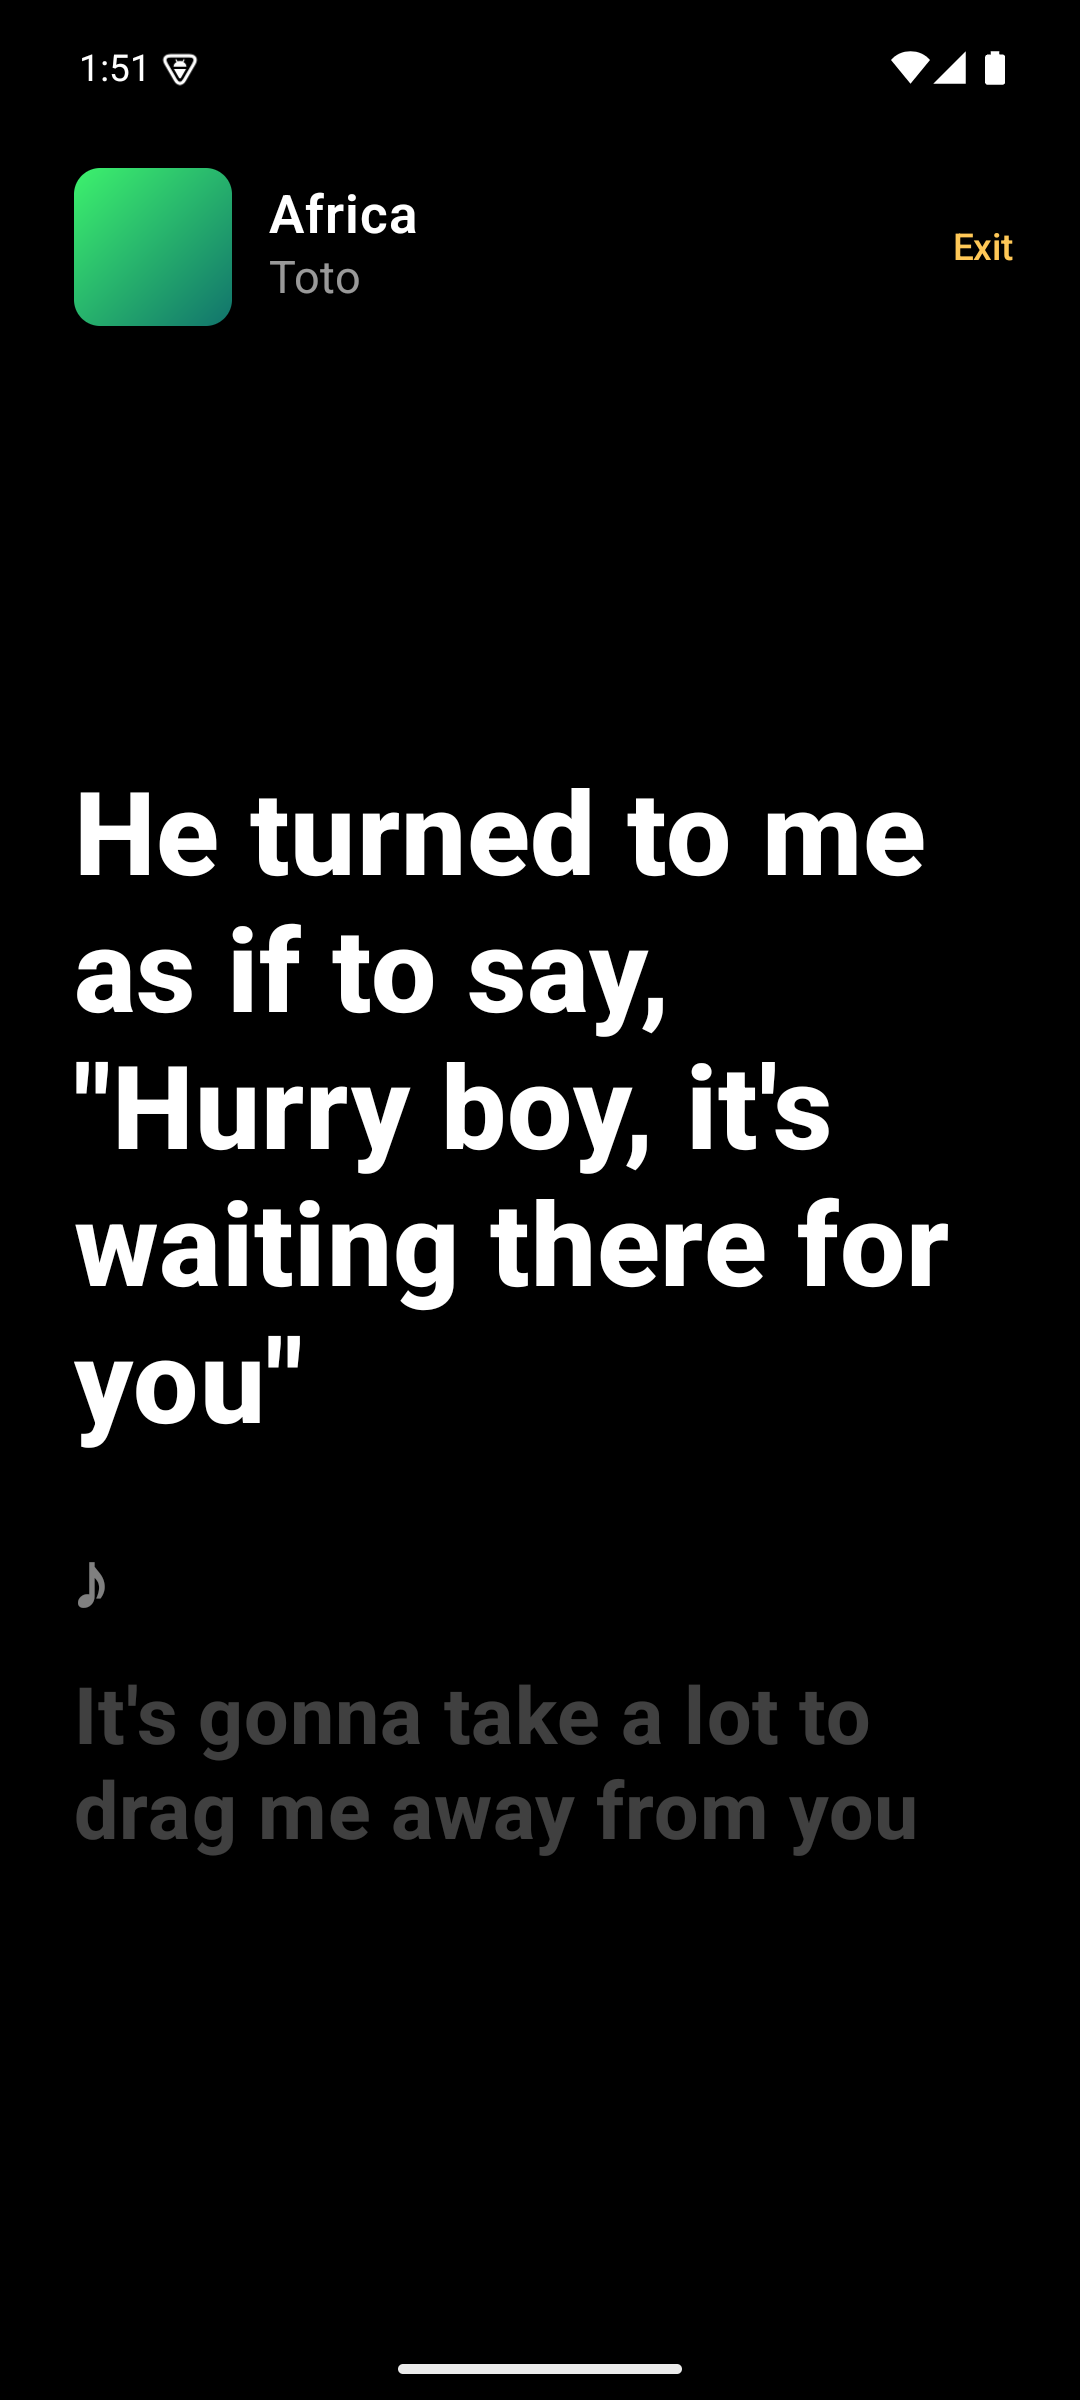
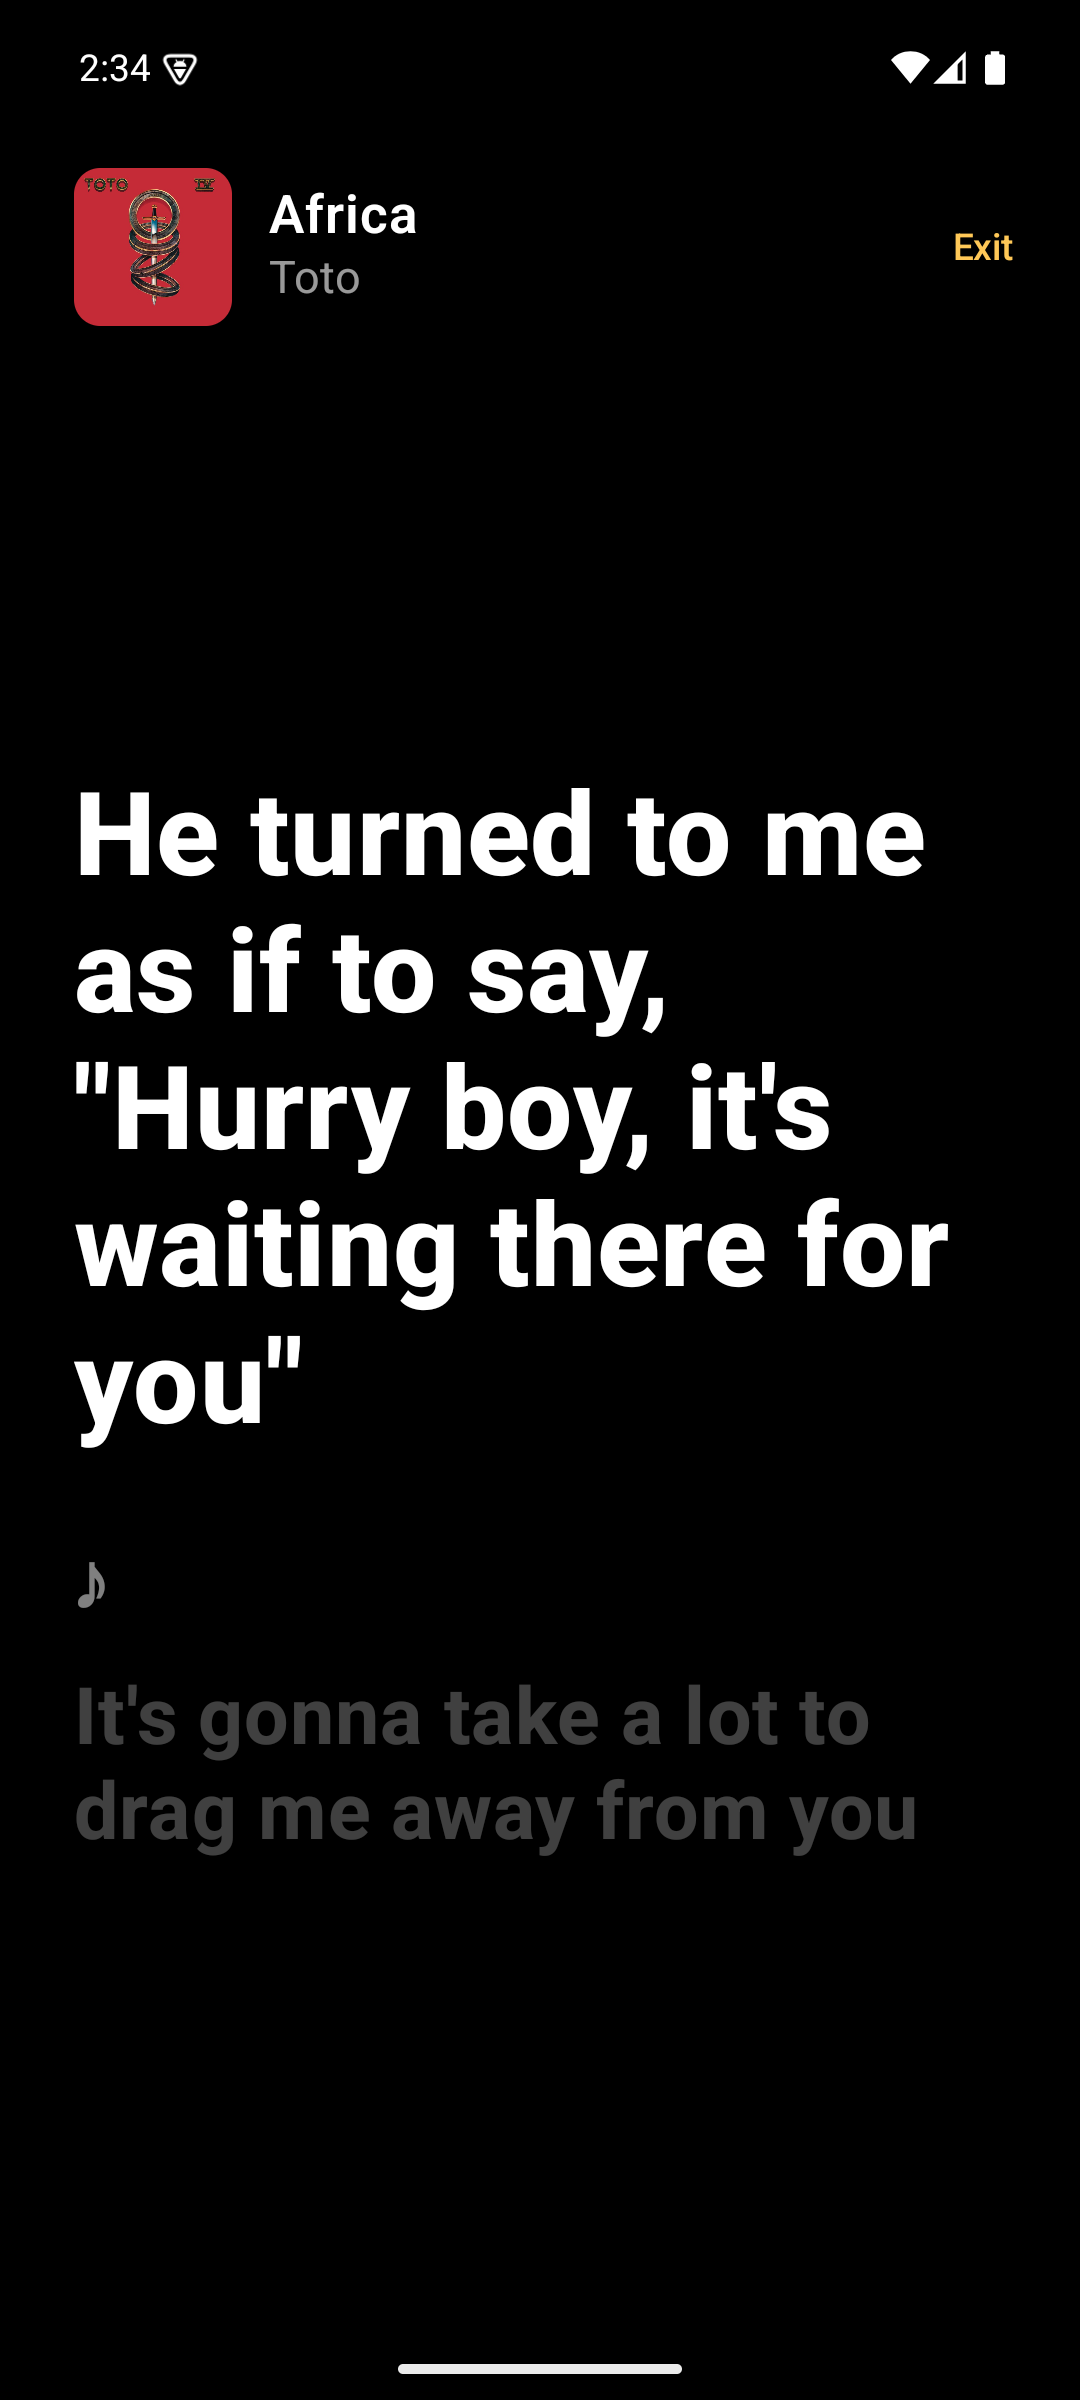
Rewrite README, refresh screenshots, fix cover lookup on session restart
- README rewritten in a plainer, first-person voice without emojis
- New screenshots from the current build (phone, Hebrew, car view, Windows)
- Android: allow the online cover lookup again when the same song comes
  back in a new player session

Changed region(s): [[0.0611, 0.0625, 0.2139, 0.1562]]

diff --git a/app/src/main/java/com/lyricsmatch/media/MediaRepository.kt b/app/src/main/java/com/lyricsmatch/media/MediaRepository.kt
@@ -52,11 +52,16 @@ object MediaRepository {
         if (fetchingKey == np.trackKey) return
         fetchingKey = np.trackKey
         io.launch {
-            delay(1_500) // players sometimes send the art a moment after the title
-            if (_nowPlaying.value?.trackKey != np.trackKey || _artwork.value?.trackKey == np.trackKey) return@launch
-            val bmp = ArtworkFinder.find(np.artist, np.title) ?: return@launch
-            if (_nowPlaying.value?.trackKey == np.trackKey && _artwork.value == null) {
-                _artwork.value = Artwork(np.trackKey, bmp, tintOf(bmp))
+            try {
+                delay(1_500) // players sometimes send the art a moment after the title
+                if (_nowPlaying.value?.trackKey != np.trackKey || _artwork.value?.trackKey == np.trackKey) return@launch
+                val bmp = ArtworkFinder.find(np.artist, np.title) ?: return@launch
+                if (_nowPlaying.value?.trackKey == np.trackKey && _artwork.value == null) {
+                    _artwork.value = Artwork(np.trackKey, bmp, tintOf(bmp))
+                }
+            } finally {
+                // Allow a fresh lookup if the same song comes back later (results are cached).
+                if (fetchingKey == np.trackKey) fetchingKey = null
             }
         }
     }

diff --git a/README.md b/README.md
@@ -1,155 +1,141 @@
 <div align="center">
 
-<img src="docs/icon.png" width="112" alt="LyricsMatch icon" />
+<img src="docs/icon.png" width="96" alt="LyricsMatch icon" />
 
 # LyricsMatch
 
-**Live, line-by-line lyrics for whatever you're playing, built for singing in the car.**
-
-For **Android** (with Android Auto) and **Windows**. Works with Spotify, YouTube Music, Apple Music, Deezer, Tidal and other music apps.
+Live, line-by-line lyrics for whatever you're playing. Android (with Android Auto) and Windows.
 
 </div>
 
 <p align="center">
-  <img src="docs/screenshots/phone.png" width="240" alt="Lyrics on the phone" />
+  <img src="docs/screenshots/phone.png" width="230" alt="Synced lyrics on the phone" />
   &nbsp;
-  <img src="docs/screenshots/car-view.png" width="240" alt="Car view" />
+  <img src="docs/screenshots/hebrew.png" width="230" alt="A Hebrew song, laid out right to left" />
   &nbsp;
-  <img src="docs/screenshots/windows.png" width="300" alt="LyricsMatch on Windows" />
+  <img src="docs/screenshots/car-view.png" width="230" alt="Car view" />
 </p>
 
----
+## Why I made this
 
-## ✨ What it does
+I wanted to do karaoke in the car. Spotify has synced lyrics, but they're buried in the app and not really made to be read from a phone mount. So I built a small app that listens for whatever song is playing, finds the timed lyrics and highlights each line as it's sung, with a big-text mode for the car.
 
-- 🎵 **Detects the current song automatically.** Press play in your music app and the lyrics show up. You don't need to search or log in.
-- 🎨 **Matches the music:** shows the album art (if your player has none, it finds the cover online) and tints the background to the cover's color.
-- 🇮🇱 **Hebrew and Arabic support:** right-to-left songs are laid out right-to-left automatically.
-- 📊 **Equalizer progress bar:** the song's progress bar is a row of bars that move with the music. Tap anywhere on it to jump to that point.
-- 📜 **Plain lyrics as a fallback:** for songs without timed lyrics, the full text scrolls along with the song.
-- 🎶 **No lyrics? Still something to watch:** the album art, the song info and a live spectrum of the music.
-- ⏱ **Highlights each line as it's sung**, karaoke style, and scrolls along with the music.
-- 🚗 **Switches to Car view by itself** when your phone connects to Android Auto: big, high-contrast text with only the current line and the next two.
-- 📺 **Can also show lyrics on the car's display** (optional, see below).
-- 👆 **Tap any line** to jump the song to that spot.
-- 🎚 **Fix the timing with one tap** if the lyrics are a little early or late.
-- 💾 **Saves lyrics you've already played**, so replays load instantly, even with a weak signal.
-- 🧘 **Keeps things simple:** no accounts, no ads, no pop-ups on top of other apps.
+It works with Spotify, YouTube Music, Apple Music, Deezer, Tidal and basically any app that shows up in your media controls.
 
-## 📲 Install on Android
+## What it does
 
-1. Download the latest `LyricsMatch.apk` from the [**Releases**](../../releases) page on your phone.
-2. Open it and allow installing from your browser or file manager when Android asks.
-3. Open **LyricsMatch** and tap **Allow access**. On the next screen, switch LyricsMatch **on**.
+- Picks up the current song automatically. No searching, no login.
+- Highlights the line being sung and scrolls along with the song. Tap a line to jump there.
+- Switches to a big, high-contrast **Car view** on its own when the phone connects to Android Auto.
+- Can also show the lyrics on the car's own display (optional, see below).
+- Shows the album art and tints the background to match it. If the player doesn't give a cover, it looks one up online.
+- The progress bar is a row of equalizer bars that move with the music. Tap it to seek.
+- Hebrew (and other right-to-left) songs are laid out right to left.
+- If a song only has plain lyrics, it shows the full text and scrolls it with the song. If there are no lyrics at all, you get the album art, the song info and the bars.
+- **Later / Earlier** buttons if the timing is a bit off.
+- Remembers lyrics it already found, so replays load instantly even with bad signal.
 
-> **Is the switch greyed out?** Android blocks this setting for apps installed outside the Play Store until you unlock it:
-> **Settings › Apps › LyricsMatch › ⋮ (top right) › Allow restricted settings**, then try again.
+No accounts, no ads, and it never draws on top of other apps.
 
-That's it. Play a song and sing along. 🎤
+## Installing on Android
 
-> **Optional: equalizer that follows the music.** LyricsMatch may offer *"Make the bar react to the music?"*. If you tap **Allow**, Android asks for audio access so the bars can follow the real sound. Sound is analyzed on your phone only and is never recorded or sent anywhere. If you skip it, the bars use a beat-style animation instead. Some phones don't share audio from certain apps; the beat-style animation is used then too.
+1. Grab `LyricsMatch.apk` from the [Releases](../../releases) page on your phone and open it. Android will ask you to allow installing from your browser or file manager.
+2. Open LyricsMatch, tap **Allow access**, and switch LyricsMatch on in the screen that opens.
 
-## 🚗 Using it in the car
+That's it, play something.
 
-LyricsMatch runs on your **phone**. You don't install anything on the car's screen or head unit.
+If the switch in step 2 is greyed out, that's Android blocking the setting for apps that aren't from the Play Store. Go to **Settings > Apps > LyricsMatch > ⋮ (top right) > Allow restricted settings** and try again.
 
-### Option A: lyrics on your phone (simplest)
+**About the equalizer bar on Android:** the app will offer to make the bar react to the music. That needs audio access, which is why Android shows a "record audio" prompt. The sound is only analyzed on the phone and never recorded or sent anywhere. If you skip it (or your phone doesn't share audio from that app), the bars just do a beat-style animation instead.
 
-1. Put your phone in a holder that's easy to see.
-2. Connect to Android Auto as usual and open LyricsMatch on the phone.
-3. It switches to **Car view** automatically, with large text and the screen kept on while music plays.
+## Using it in the car
 
-You can try Car view at home too: tap **Car view** at the top of the screen.
+Everything runs on the phone. Nothing gets installed on the car.
 
-### Option B: lyrics on the car's display
+**Lyrics on the phone (easiest):** put the phone in a mount, connect to Android Auto like you normally do, and open LyricsMatch. It switches to Car view by itself and keeps the screen on while music is playing. You can try Car view at home with the button at the top.
 
-The car display only shows apps that Android Auto trusts. Because LyricsMatch isn't from the Play Store, you need to allow it once:
+**Lyrics on the car's screen:** Android Auto only shows apps it trusts, and this one isn't from the Play Store, so you have to allow it once:
 
-1. On your phone, open **Settings › Connected devices › Connection preferences › Android Auto**.
-2. Scroll to the bottom and tap **Version** about 10 times until you're asked to enable developer settings. Accept.
-3. Open the **⋮ menu › Developer settings** and turn on **Unknown sources**.
-4. Reconnect to your car. **LyricsMatch** now shows up in the Android Auto app launcher.
+1. On the phone, go to **Settings > Connected devices > Connection preferences > Android Auto**.
+2. Scroll down and tap **Version** about 10 times until it offers developer settings, and accept.
+3. In the **⋮ menu > Developer settings**, turn on **Unknown sources**.
+4. Reconnect to the car. LyricsMatch shows up in the Android Auto launcher.
 
-On the car display, lyrics use Android Auto's own templates. The car decides how much text it shows while you're moving, which keeps it within the driving safety rules.
+On the car screen it uses Android Auto's own templates, so the car decides how much text to show while you're driving.
 
-## 💻 On Windows
+Please don't actually read lyrics while driving. Car view is meant for passengers and quick glances.
 
-1. Download `LyricsMatch-Windows.exe` from the [**Releases**](../../releases) page. There's no installer, so you can put it anywhere and double-click it.
-2. Windows may show *"Windows protected your PC"* because the app isn't signed. Click **More info › Run anyway**.
-3. Play something in Spotify (desktop app or web player) or any other music app. The lyrics follow along automatically.
+## Windows
 
-| Shortcut | What it does |
-| --- | --- |
-| **F11** | Full screen: big lyrics for karaoke on a TV or second screen |
-| **← / →** | Make lyrics later / earlier |
-| **Click a line** or **the equalizer bar** | Jump to that part of the song (if your music app allows it) |
+<p align="center">
+  <img src="docs/screenshots/windows.png" width="420" alt="LyricsMatch on Windows" />
+</p>
 
-The text gets bigger as you make the window bigger. The equalizer bar follows whatever your PC is playing; the audio is only analyzed on your PC and never recorded. Requires Windows 10 (version 2004) or Windows 11.
+Download `LyricsMatch-Windows.exe` from [Releases](../../releases) and run it. There's no installer. Windows might say "Windows protected your PC" because the exe isn't signed; click **More info > Run anyway**.
 
-## 🎚 Tips
+Then play something in Spotify (desktop or web) or any other player and the lyrics follow along. The equalizer bar reacts to whatever your PC is playing (analyzed locally, nothing is recorded).
 
-| If… | Do this |
-| --- | --- |
-| Lyrics are **ahead** of the singer | Tap **Later** at the bottom (each tap is 0.25 s) |
-| Lyrics are **behind** the singer | Tap **Earlier** |
-| It says *"No lyrics for this song yet"* | That song isn't in the lyrics library yet. Just keep listening: the next song loads by itself. If you were offline, it retries automatically |
-| Only the full text shows, with no highlighting | That song has no timed lyrics yet, so the plain text is shown instead |
-| Nothing happens when music plays (Android) | Check that notification access is still on (step 3 of Install) |
+- **F11**: full screen, good for a TV or a second monitor
+- **Left / Right arrows**: lyrics later / earlier
+- **Click a line or the bar**: jump to that point in the song (if your player supports it)
 
-## 🔒 Privacy
+The text scales with the window. Needs Windows 10 (2004) or Windows 11.
 
-- On Android, LyricsMatch asks for **notification access** only because Android requires it before an app can see which song is playing. It **never reads your notifications**.
-- The only data sent anywhere is the **song title, artist, album and length**, sent to [LRCLIB](https://lrclib.net) (and to [lyrics.ovh](https://lyrics.ovh) if LRCLIB has nothing) to look up lyrics.
-- Album art comes from your music app. Only when it has none is the cover looked up on [iTunes](https://www.apple.com/itunes/) (artist and title only).
-- The equalizer analyzes sound on your device only (on Android, only if you opt in). Audio is never recorded, saved or sent.
-- There are no accounts, analytics or ads.
+## If something's off
 
-## 🙏 Credits
+- **Lyrics are ahead of the singer:** tap **Later** (each tap is 0.25 s). Behind? Tap **Earlier**.
+- **"No lyrics for this song":** the song just isn't in the lyrics database yet. The next song loads by itself, and if you were offline it retries on its own.
+- **Only plain text, no highlighting:** that song has lyrics but no timing yet.
+- **Nothing happens when music plays (Android):** check that notification access is still on.
 
-Synced lyrics come from **[LRCLIB](https://lrclib.net)**, a free, community-built lyrics library. If a song is missing or out of sync, you can contribute it there. When LRCLIB doesn't have a song, plain lyrics come from **[lyrics.ovh](https://lyrics.ovh)**.
+## Privacy
 
-## ⚠ Drive safely
+- Android only lets an app see what's playing if it has notification access, which is why the app asks for it. It never reads your notifications.
+- To find lyrics, the song's title, artist, album and length are sent to [LRCLIB](https://lrclib.net), and to [lyrics.ovh](https://lyrics.ovh) if LRCLIB doesn't have it.
+- If your player doesn't provide album art, the artist and title are sent to the [iTunes](https://www.apple.com/itunes/) search API to find the cover.
+- Audio for the equalizer is analyzed on the device and never recorded, saved or sent.
+- No accounts, no analytics.
 
-Keep your eyes on the road. LyricsMatch is meant for **passengers and quick glances**. Car view and the Android Auto display are kept minimal for that reason.
+## Credits
 
----
+Synced lyrics come from [LRCLIB](https://lrclib.net), a free, community-run lyrics database. If a song is missing or out of sync, you can add or fix it there. Plain-text fallback lyrics come from [lyrics.ovh](https://lyrics.ovh).
 
-<details>
-<summary><b>🛠 For developers</b></summary>
+## Building it yourself
 
-### Build (Android)
-
-Requirements: JDK 17 and the Android SDK (platform 35). Android Studio includes both.
+**Android:** you need JDK 17 and the Android SDK (platform 35); Android Studio comes with both.
 
 ```bash
 ./gradlew assembleDebug        # app/build/outputs/apk/debug/app-debug.apk
 ./gradlew testDebugUnitTest    # unit tests
 ```
 
-### How it works
-
-| Piece | File |
-| --- | --- |
-| Watches the active media session (any music app) | `media/MediaListenerService.kt` |
-| Finds and caches synced lyrics from LRCLIB | `lyrics/LyricsRepository.kt` |
-| Parses LRC and finds the current line | `lyrics/LrcParser.kt` |
-| Shared state for phone and car (song, lyrics, current line) | `lyrics/Karaoke.kt` |
-| Phone UI and automatic Car view (Jetpack Compose) | `ui/App.kt` |
-| Optional Android Auto display (Car App Library templates) | `car/LyricsScreen.kt` |
-
-Car view turns on automatically through `CarConnection` when the phone is projecting to Android Auto. The car-display screen keeps the template's title and row count fixed, so each line change counts as a *refresh* and stays within Android Auto's template limits.
-
-### Windows app
-
-C# / WPF on .NET 10, in [`windows/`](windows). It reads the song from Windows' system media sessions (the same source as the volume pop-up) and uses the same LRCLIB lookup and LRC parsing as the Android app.
+**Windows:** C# / WPF on .NET 10, in [`windows/`](windows).
 
 ```bash
 cd windows/LyricsMatch.Windows
-dotnet run                                   # run it
+dotnet run
 dotnet publish -c Release -r win-x64 --self-contained -p:PublishSingleFile=true -o ../publish
 ```
 
-### Demo without a music app (Android debug builds)
+<details>
+<summary>How it's put together</summary>
+
+On Android, a notification listener service watches the active media session (that's how it sees any music app). Lyrics come from LRCLIB and get cached, the LRC parser works out the current line, and one shared state feeds both the phone UI (Jetpack Compose) and the optional Android Auto screen (Car App Library templates). Car view turns on through `CarConnection` when the phone is projecting.
+
+| What | Where |
+| --- | --- |
+| Watching the current song | `app/.../media/MediaListenerService.kt` |
+| Finding and caching lyrics | `app/.../lyrics/LyricsRepository.kt` |
+| Parsing LRC / current line | `app/.../lyrics/LrcParser.kt` |
+| Shared state (song, lyrics, line) | `app/.../lyrics/Karaoke.kt` |
+| Phone UI and Car view | `app/.../ui/App.kt` |
+| Android Auto screen | `app/.../car/LyricsScreen.kt` |
+
+The Android Auto screen keeps the template's title and row count the same between updates, so each line change counts as a refresh and stays inside Android Auto's template limits.
+
+On Windows, the app reads the song from the system media sessions (the same thing the volume flyout uses) and does the same LRCLIB lookup and LRC parsing.
+
+To test on Android without a music app, debug builds include a fake player:
 
 ```bash
 adb shell cmd notification allow_listener com.lyricsmatch/com.lyricsmatch.media.MediaListenerService
